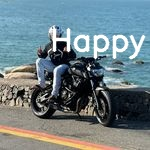
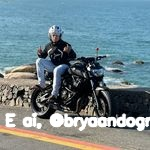
+

diff --git a/faceDetection.py b/faceDetection.py
@@ -2,6 +2,7 @@ import cv2
 import os
 import glob
 import random
+import unicodedata
 
 face_classifier = cv2.CascadeClassifier('data/haarcascades/haarcascade_frontalface_default.xml')
 eye_classifier = cv2.CascadeClassifier('data/haarcascades/haarcascade_eye.xml')
@@ -58,12 +59,19 @@ def object_above_head(img, face_rect, object_img, object_img2):
     return img_final
 
 #adicionar texto à imagem
-def add_text(img, text, position, font=cv2.FONT_HERSHEY_SIMPLEX, scale=1, color=(255, 255, 255), thickness=2):
+def add_text(img, text, position, font=cv2.FONT_HERSHEY_SIMPLEX, scale=0.5, color=(255, 255, 255), thickness=2):
 
     img_text = img.copy()
 
     cv2.putText(img_text, text, position, font, scale, color, thickness, lineType=cv2.LINE_AA)
     return img_text
+
+#remover os acentos do txt
+def remover_acentos(texto):
+    return ''.join(
+        c for c in unicodedata.normalize('NFD', texto)
+        if unicodedata.category(c) != 'Mn'
+    )
 
 #detetar os olhos
 def detect_eyes(img):
@@ -122,8 +130,11 @@ for i, image_file in enumerate(image_files):
     with open(filename_read, "r", encoding="utf-8") as f:
         data = f.read()
 
-    text = data
-    position = (50, 50)
+    #tirar acentos
+    data_sem_acentos = remover_acentos(data)
+
+    text = data_sem_acentos
+    position = (5, 125)
     img_text = add_text(img_object, text, position)
     
     #img_final = cv2.cvtColor(img_object, cv2.COLOR_BGR2RGB)
